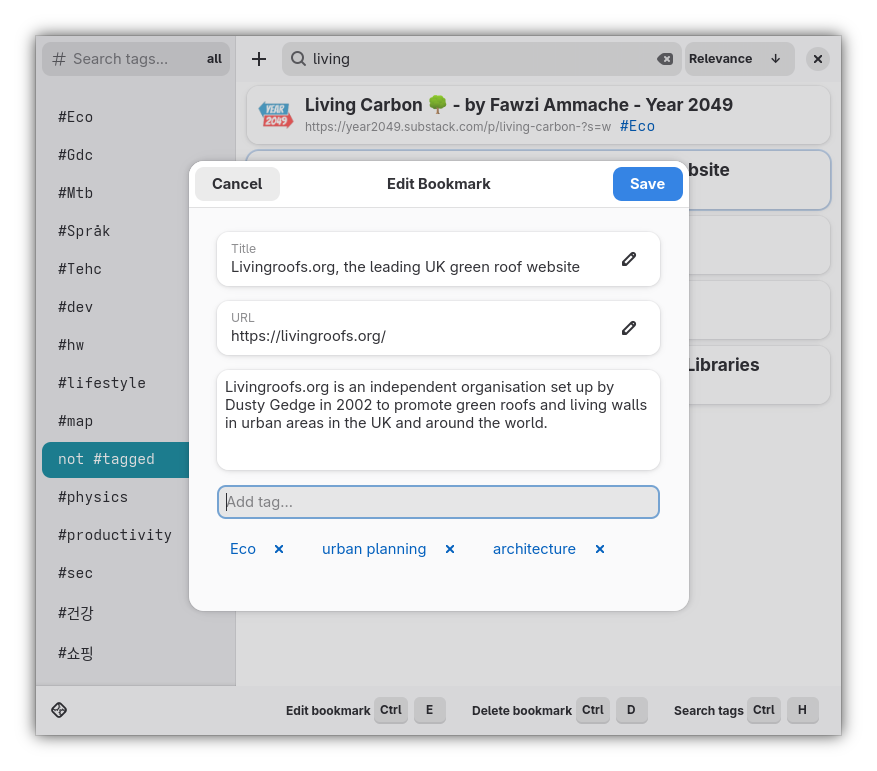
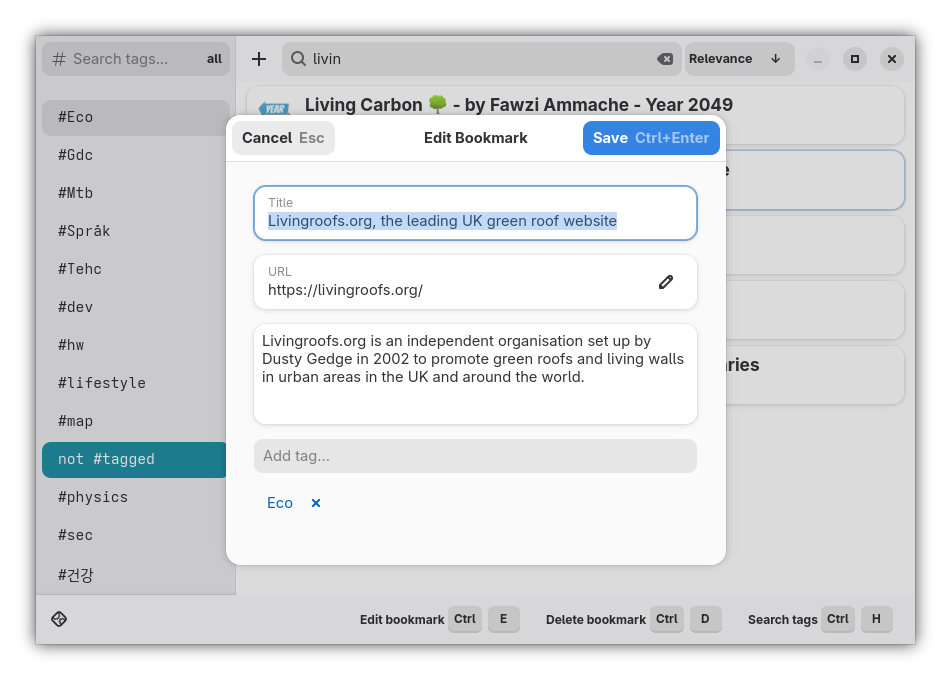
edit dialog hotkeys

diff --git a/src/components/bookmark_edit_dialog.rs b/src/components/bookmark_edit_dialog.rs
@@ -70,6 +70,16 @@ impl SimpleComponent for BookmarkEditDialog {
             set_content_width: 500,
             set_content_height: 450,
 
+            add_controller = gtk::EventControllerKey {
+                connect_key_pressed[sender] => move |_, key, _, state| {
+                    if key == gtk::gdk::Key::Return && state.contains(gtk::gdk::ModifierType::CONTROL_MASK) {
+                        let _ = sender.input_sender().send(BookmarkEditMsg::Save);
+                        return gtk::glib::Propagation::Stop;
+                    }
+                    gtk::glib::Propagation::Proceed
+                }
+            },
+
             #[wrap(Some)]
             set_child = &gtk::Box {
                 set_orientation: gtk::Orientation::Vertical,
@@ -78,14 +88,43 @@ impl SimpleComponent for BookmarkEditDialog {
                 adw::HeaderBar {
                     set_show_end_title_buttons: false,
                     pack_start = &gtk::Button {
-                        set_label: "Cancel",
+
+                        #[wrap(Some)]
+                        set_child = &gtk::Box {
+                            set_orientation: gtk::Orientation::Horizontal,
+                            set_spacing: 6,
+
+                            gtk::Label {
+                                set_label: "Cancel",
+                            },
+
+                            gtk::Label {
+                                set_label: "Esc",
+                                add_css_class: "dim-label",
+                            }
+                        },
+
                         connect_clicked => BookmarkEditMsg::Cancel,
                     },
 
                     pack_end = &gtk::Button {
-                        set_label: "Save",
                         add_css_class: "suggested-action",
                         connect_clicked => BookmarkEditMsg::Save,
+
+                        #[wrap(Some)]
+                        set_child = &gtk::Box {
+                            set_orientation: gtk::Orientation::Horizontal,
+                            set_spacing: 6,
+
+                            gtk::Label {
+                                set_label: "Save",
+                            },
+
+                            gtk::Label {
+                                set_label: "Ctrl+Enter",
+                                add_css_class: "dim-label",
+                            }
+                        }
                     }
                 },
 
@@ -107,6 +146,9 @@ impl SimpleComponent for BookmarkEditDialog {
                                 #[name = "title_entry"]
                                 adw::EntryRow {
                                     set_title: "Title",
+                                    connect_realize => move |row| {
+                                        row.grab_focus();
+                                    },
                                 }
                             },
 

diff --git a/src/components/bookmark_list_item.rs b/src/components/bookmark_list_item.rs
@@ -48,7 +48,6 @@ impl BookmarkListItem {
 /// Widgets that are set up once and reused for each list item
 pub struct BookmarkListItemWidgets {
     pub favicon_picture: gtk::Picture,
-    pub favicon_placeholder: gtk::Image,
     pub title_label: gtk::Label,
     pub url_label: gtk::Label,
     pub tags_box: gtk::Box,
@@ -70,12 +69,6 @@ impl RelmListItem for BookmarkListItem {
         let favicon_picture = gtk::Picture::new();
         favicon_picture.add_css_class("favicon-icon");
         favicon_picture.set_can_shrink(true);
-
-        let favicon_placeholder = gtk::Image::builder()
-            .icon_name("image-missing-symbolic")
-            .pixel_size(32)
-            .build();
-        favicon_placeholder.add_css_class("dim-label");
 
         // Content box (title, URL, tags)
         let content_box = gtk::Box::new(gtk::Orientation::Vertical, 2);
@@ -114,7 +107,6 @@ impl RelmListItem for BookmarkListItem {
             root,
             BookmarkListItemWidgets {
                 favicon_picture,
-                favicon_placeholder,
                 title_label,
                 url_label,
                 tags_box,
@@ -143,10 +135,8 @@ impl RelmListItem for BookmarkListItem {
         if let Some(ref texture) = self.favicon_texture {
             widgets.favicon_picture.set_paintable(Some(texture));
             widgets.favicon_picture.set_visible(true);
-            widgets.favicon_placeholder.set_visible(false);
         } else {
             widgets.favicon_picture.set_visible(false);
-            widgets.favicon_placeholder.set_visible(true);
         }
 
         // Clear existing tags

diff --git a/src/app.rs b/src/app.rs
@@ -479,7 +479,7 @@ impl SimpleComponent for App {
         // Load custom CSS for favicon styling, compact buttons, and untagged tag styling
         let css_provider = gtk::CssProvider::new();
         css_provider.load_from_data(
-            ".favicon-icon { border-radius: 8px; min-width: 32px; min-height: 32px; }
+            ".favicon-icon { border-radius: 4px; max-width: 48px; max-height: 48px; min-width: 24px; min-height: 24px;}
              button.compact { padding: 0; margin: 0; min-height: 24px; font-size: 0.85em; }
             .untagged-tag:not(:hover) { background-color: var(--accent-teal); }
             .untagged-tag:not(:hover) .untagged-tag-label { color: white; }

diff --git a/README.md b/README.md
@@ -20,7 +20,7 @@ Find cool stuff you saved to a growing pile of thousands of saved pages and forg
 - [ ] nested tags
 - [ ] JSON/CSV exports
 - [ ] reader mode
-- [ ] CRDT-based conflict free syncing
+- [ ] conflict free syncing - no server self-hosting required
 ## Coming later:
 - [ ] daemon for capturing links
 - [ ] compact/grid view
